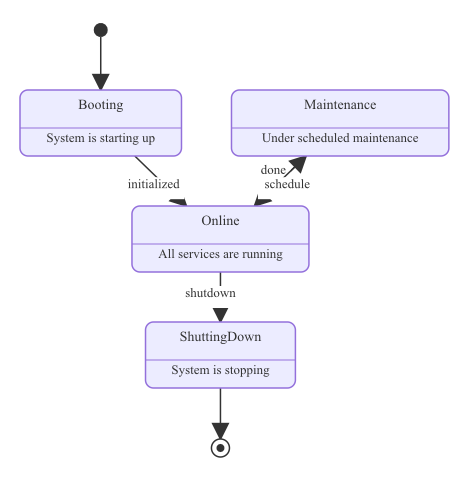
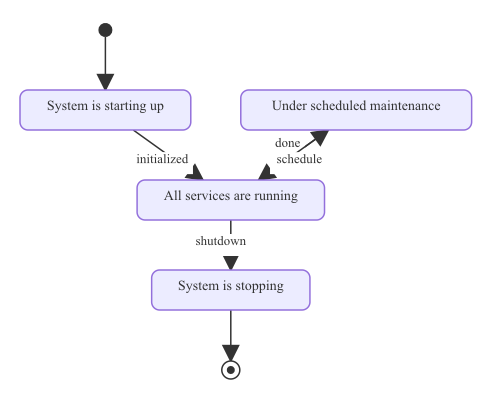
state: align with Mermaid.js docs examples
- parseStateDescription: sets Label (not Description) to match Mermaid semantics
- Removed Description field from StateDef and two-compartment rendering
- Added bare state ID handling (stateId on its own line)
- parseTransition: strip ::: CSS shorthand before splitting on : for labels
- parseStateDecl: preserve existing labels when re-parsing composite states
- Added ShapeCircle to graph.NodeShape for history state edge clipping
- Added 11 new examples covering all docs permutations:
  bare_state, colon_label, quoted_state, auto_states, transition_label,
  nested, composite_to_composite, concurrent_three, direction_composite,
  comments, spaces_in_names, still_moving_crash
- Regenerated all state example SVGs/PNGs

Changed region(s): [[0.0299, 0.03, 0.9851, 0.96]]

diff --git a/pkg/parser/state/parser_test.go b/pkg/parser/state/parser_test.go
@@ -317,11 +317,11 @@ func TestParseBareStateDecl(t *testing.T) {
 	}
 }
 
-// `id : description` outside of a transition assigns the description
-// to that state. The state is auto-registered if not already present.
-func TestParseStateDescription(t *testing.T) {
+// `id : label` outside of a transition assigns the label to that state.
+// The state is auto-registered if not already present.
+func TestParseStateLabel(t *testing.T) {
 	d, err := Parse(strings.NewReader(`stateDiagram-v2
-    s1 : This is a description
+    s1 : This is a label
     s2 : Another one`))
 	if err != nil {
 		t.Fatalf("parse: %v", err)
@@ -329,24 +329,24 @@ func TestParseStateDescription(t *testing.T) {
 	if len(d.States) != 2 {
 		t.Fatalf("want 2 states, got %d", len(d.States))
 	}
-	if d.States[0].ID != "s1" || d.States[0].Description != "This is a description" {
+	if d.States[0].ID != "s1" || d.States[0].Label != "This is a label" {
 		t.Errorf("s1 = %+v", d.States[0])
 	}
-	if d.States[1].Description != "Another one" {
+	if d.States[1].Label != "Another one" {
 		t.Errorf("s2 = %+v", d.States[1])
 	}
 }
 
-// Description shorthand can repeat; the latest description wins.
-func TestParseStateDescriptionUpdate(t *testing.T) {
+// Label shorthand can repeat; the latest label wins.
+func TestParseStateLabelUpdate(t *testing.T) {
 	d, err := Parse(strings.NewReader(`stateDiagram-v2
     s1 : first
     s1 : second`))
 	if err != nil {
 		t.Fatalf("parse: %v", err)
 	}
-	if d.States[0].Description != "second" {
-		t.Errorf("description = %q, want %q", d.States[0].Description, "second")
+	if d.States[0].Label != "second" {
+		t.Errorf("label = %q, want %q", d.States[0].Label, "second")
 	}
 }
 
@@ -983,5 +983,72 @@ func TestParseCompositeTransitionLabel(t *testing.T) {
 	}
 	if got := found["Active->Done"]; got != "finish" {
 		t.Errorf("Active->Done label = %q, want finish", got)
+	}
+}
+
+// A bare state identifier on its own line registers the state.
+func TestParseBareStateID(t *testing.T) {
+	d, err := Parse(strings.NewReader(`stateDiagram-v2
+    stateId`))
+	if err != nil {
+		t.Fatalf("parse: %v", err)
+	}
+	if len(d.States) != 1 {
+		t.Fatalf("want 1 state, got %d", len(d.States))
+	}
+	if d.States[0].ID != "stateId" || d.States[0].Label != "stateId" {
+		t.Errorf("state = %+v", d.States[0])
+	}
+}
+
+// CSS shorthand on transition endpoints is stripped before state
+// registration so the state ID isn't polluted.
+func TestParseTransitionCSSShorthand(t *testing.T) {
+	d, err := Parse(strings.NewReader(`stateDiagram-v2
+    classDef hot fill:#f00
+    A:::hot --> B:::cold
+    B --> C`))
+	if err != nil {
+		t.Fatalf("parse: %v", err)
+	}
+	ids := make(map[string]bool)
+	for _, s := range d.States {
+		ids[s.ID] = true
+	}
+	for _, id := range []string{"A", "B", "C"} {
+		if !ids[id] {
+			t.Errorf("state %q not found", id)
+		}
+	}
+	if ids["A:::hot"] || ids["B:::cold"] {
+		t.Error("CSS shorthand leaked into state IDs")
+	}
+	if len(d.Transitions) != 2 {
+		t.Fatalf("want 2 transitions, got %d", len(d.Transitions))
+	}
+	if d.Transitions[0].From != "A" || d.Transitions[0].To != "B" {
+		t.Errorf("transition[0] = %+v", d.Transitions[0])
+	}
+}
+
+// `id : text` on a composite state sets its label (display name).
+func TestParseCompositeLabelViaColon(t *testing.T) {
+	d, err := Parse(strings.NewReader(`stateDiagram-v2
+    NamedComposite : Another Composite
+    state NamedComposite {
+        [*] --> namedSimple
+    }`))
+	if err != nil {
+		t.Fatalf("parse: %v", err)
+	}
+	if len(d.States) != 1 {
+		t.Fatalf("want 1 state, got %d", len(d.States))
+	}
+	s := d.States[0]
+	if s.ID != "NamedComposite" {
+		t.Errorf("ID = %q", s.ID)
+	}
+	if s.Label != "Another Composite" {
+		t.Errorf("Label = %q, want %q", s.Label, "Another Composite")
 	}
 }

diff --git a/pkg/renderer/state/renderer_test.go b/pkg/renderer/state/renderer_test.go
@@ -165,12 +165,11 @@ func assertValidSVG(t *testing.T, svgBytes []byte) {
 	}
 }
 
-// A state with Description renders as a two-compartment box: a
-// title row, a horizontal divider, and the description below.
-func TestRenderStateDescription(t *testing.T) {
+// A state with a long label renders as a single-compartment box.
+func TestRenderStateLabel(t *testing.T) {
 	d := &diagram.StateDiagram{
 		States: []diagram.StateDef{
-			{ID: "s1", Label: "s1", Description: "Idle phase"},
+			{ID: "s1", Label: "Idle phase"},
 		},
 	}
 	out, err := Render(d, nil)
@@ -178,55 +177,13 @@ func TestRenderStateDescription(t *testing.T) {
 		t.Fatalf("Render: %v", err)
 	}
 	raw := string(out)
-	if !strings.Contains(raw, ">s1<") {
-		t.Error("title missing")
-	}
 	if !strings.Contains(raw, ">Idle phase<") {
-		t.Error("description missing")
+		t.Error("label missing")
 	}
-	// Divider line: a horizontal `<line>` with matching y1/y2 at
-	// the bottom of the title band, stroked with the state stroke.
-	// Geometric check is more discriminating than counting strokes
-	// (rect borders use 1.5; an accidental width-1 line elsewhere
-	// would otherwise pass the looser check).
+	// No divider line in single-compartment states.
 	dividerStyle := fmt.Sprintf(`style="stroke:%s;stroke-width:1"`, DefaultTheme().StateStroke)
-	idx := strings.Index(raw, dividerStyle)
-	if idx < 0 {
-		t.Fatalf("divider stroke style %q missing from output", dividerStyle)
-	}
-	// Walk back to find the enclosing <line ...> open tag and
-	// verify y1==y2 (horizontal divider).
-	lineOpen := strings.LastIndex(raw[:idx], "<line")
-	if lineOpen < 0 {
-		t.Fatal("no <line> element wraps the divider style")
-	}
-	lineTag := raw[lineOpen:idx]
-	var x1, y1, x2, y2 float64
-	if _, err := fmt.Sscanf(lineTag, `<line x1="%f" y1="%f" x2="%f" y2="%f"`, &x1, &y1, &x2, &y2); err != nil {
-		t.Fatalf("divider geom parse %q: %v", lineTag, err)
-	}
-	if y1 != y2 {
-		t.Errorf("divider not horizontal: y1=%f y2=%f", y1, y2)
-	}
-	if x1 >= x2 {
-		t.Errorf("divider not left-to-right: x1=%f x2=%f", x1, x2)
-	}
-}
-
-// Multi-line description lines (split on \n in the parser) emit
-// one <text> element per line.
-func TestRenderMultilineDescription(t *testing.T) {
-	d := &diagram.StateDiagram{
-		States: []diagram.StateDef{
-			{ID: "s", Label: "s", Description: "alpha\nbeta\ngamma"},
-		},
-	}
-	out, _ := Render(d, nil)
-	raw := string(out)
-	for _, line := range []string{">alpha<", ">beta<", ">gamma<"} {
-		if !strings.Contains(raw, line) {
-			t.Errorf("missing %q in output", line)
-		}
+	if strings.Contains(raw, dividerStyle) {
+		t.Error("single-compartment state should not have a divider line")
 	}
 }
 

diff --git a/pkg/parser/state/parser.go b/pkg/parser/state/parser.go
@@ -125,11 +125,16 @@ func (p *parser) parseLine(line string, target *[]diagram.StateDef) error {
 		p.diagram.Transitions = append(p.diagram.Transitions, t)
 		return nil
 	}
-	if id, desc, ok := parseStateDescription(line); ok {
+	if id, label, ok := parseStateDescription(line); ok {
 		s := upsertState(target, id)
 		if s != nil {
-			s.Description = desc
+			s.Label = label
 		}
+		return nil
+	}
+	// Bare state identifier with no transition or description.
+	if !strings.ContainsAny(line, " \t") {
+		upsertState(target, line)
 		return nil
 	}
 	return nil
@@ -470,7 +475,12 @@ func (p *parser) parseStateDecl(rest string, target *[]diagram.StateDef) error {
 	if s == nil {
 		return fmt.Errorf("invalid state name %q", id)
 	}
-	s.Label = label
+	// Only overwrite an existing label when an explicit one is given
+	// (i.e. label differs from the bare id). This preserves labels set
+	// by prior `id : text` or `state "Label" as id` declarations.
+	if label != id {
+		s.Label = label
+	}
 	if cssClass != "" {
 		s.CSSClasses = append(s.CSSClasses, cssClass)
 	}
@@ -561,12 +571,26 @@ func parseTransition(line string) (diagram.StateTransition, bool) {
 		return diagram.StateTransition{}, false
 	}
 	from := strings.TrimSpace(line[:idx])
+	// Strip inline CSS shorthand from the LHS.
+	if i := strings.LastIndex(from, ":::"); i >= 0 {
+		from = strings.TrimSpace(from[:i])
+	}
 	rest := strings.TrimSpace(line[idx+3:])
+	// Strip inline CSS shorthand from the RHS before looking for
+	// the label separator so `A:::hot --> B` is parsed correctly.
 	to := rest
 	label := ""
-	if colonIdx := strings.Index(rest, ":"); colonIdx >= 0 {
+	if cssIdx := strings.Index(rest, ":::"); cssIdx >= 0 {
+		to = strings.TrimSpace(rest[:cssIdx])
+		// Any trailing content after the CSS shorthand is the label
+		// (e.g. `B:::hot : label` → to=B, label=label).
+		rest = strings.TrimSpace(rest[cssIdx+3:])
+		if colonIdx := strings.Index(rest, ":"); colonIdx >= 0 {
+			to = strings.TrimSpace(rest[:colonIdx])
+			label = parserutil.ExpandLineBreaks(strings.TrimSpace(rest[colonIdx+1:]))
+		}
+	} else if colonIdx := strings.Index(rest, ":"); colonIdx >= 0 {
 		to = strings.TrimSpace(rest[:colonIdx])
-		// Mermaid uses literal `\n` as a line-break in transition labels.
 		label = parserutil.ExpandLineBreaks(strings.TrimSpace(rest[colonIdx+1:]))
 	}
 	if from == "" || to == "" {

diff --git a/pkg/renderer/state/renderer.go b/pkg/renderer/state/renderer.go
@@ -567,16 +567,6 @@ func stateNodeSize(s diagram.StateDef, ruler *textmeasure.Ruler, fontSize float6
 	tw, _ := ruler.Measure(s.Label, fontSize)
 	w = tw + 2*statePadX
 	h = titleBandHeight(fontSize)
-	if s.Description != "" {
-		descLines := strings.Split(s.Description, "\n")
-		for _, line := range descLines {
-			lw, _ := ruler.Measure(line, fontSize-1)
-			if lw+2*statePadX > w {
-				w = lw + 2*statePadX
-			}
-		}
-		h += statePadY + float64(len(descLines))*descLineHeight(fontSize)
-	}
 	if w < minStateW {
 		w = minStateW
 	}
@@ -657,38 +647,12 @@ func renderNodes(d *diagram.StateDiagram, states []diagram.StateDef, l *layout.R
 				RX: 8, RY: 8,
 				Style: rectStyle,
 			})
-			if s.Description != "" {
-				titleH := titleBandHeight(fontSize)
-				*buf = append(*buf, &text{
-					X: svgFloat(cx), Y: svgFloat(y + titleH/2),
-					Anchor: svgutil.AnchorMiddle, Dominant: svgutil.BaselineCentral,
-					Style:   fmt.Sprintf("fill:%s;font-size:%.0fpx", th.StateText, fontSize),
-					Content: s.Label,
-				})
-				*buf = append(*buf, &line{
-					X1: svgFloat(x), Y1: svgFloat(y + titleH),
-					X2: svgFloat(x + w), Y2: svgFloat(y + titleH),
-					Style: fmt.Sprintf("stroke:%s;stroke-width:1", th.StateStroke),
-				})
-				descLines := strings.Split(s.Description, "\n")
-				lineH := descLineHeight(fontSize)
-				for i, ln := range descLines {
-					ly := y + titleH + statePadY/2 + float64(i)*lineH + lineH/2
-					*buf = append(*buf, &text{
-						X: svgFloat(cx), Y: svgFloat(ly),
-						Anchor: svgutil.AnchorMiddle, Dominant: svgutil.BaselineCentral,
-						Style:   fmt.Sprintf("fill:%s;font-size:%.0fpx", th.StateText, fontSize-1),
-						Content: ln,
-					})
-				}
-			} else {
-				*buf = append(*buf, &text{
-					X: svgFloat(cx), Y: svgFloat(cy),
-					Anchor: svgutil.AnchorMiddle, Dominant: svgutil.BaselineCentral,
-					Style:   fmt.Sprintf("fill:%s;font-size:%.0fpx", th.StateText, fontSize),
-					Content: s.Label,
-				})
-			}
+			*buf = append(*buf, &text{
+				X: svgFloat(cx), Y: svgFloat(cy),
+				Anchor: svgutil.AnchorMiddle, Dominant: svgutil.BaselineCentral,
+				Style:   fmt.Sprintf("fill:%s;font-size:%.0fpx", th.StateText, fontSize),
+				Content: s.Label,
+			})
 		}
 
 		if hasClick && click.URL != "" {

diff --git a/pkg/diagram/state.go b/pkg/diagram/state.go
@@ -18,11 +18,7 @@ func (s StateKind) String() string { return enumString(s, stateKindNames) }
 type StateDef struct {
 	ID    string
 	Label string
-	// Description is optional secondary text parsed from
-	// `id : description` syntax. Renderers may show it below the
-	// state title in a separate compartment.
-	Description string
-	Kind        StateKind
+	Kind  StateKind
 	// Children holds the inner states for a composite state with
 	// a single (default) region. For composite states split by
 	// `--` separators into parallel regions, see Regions instead;
